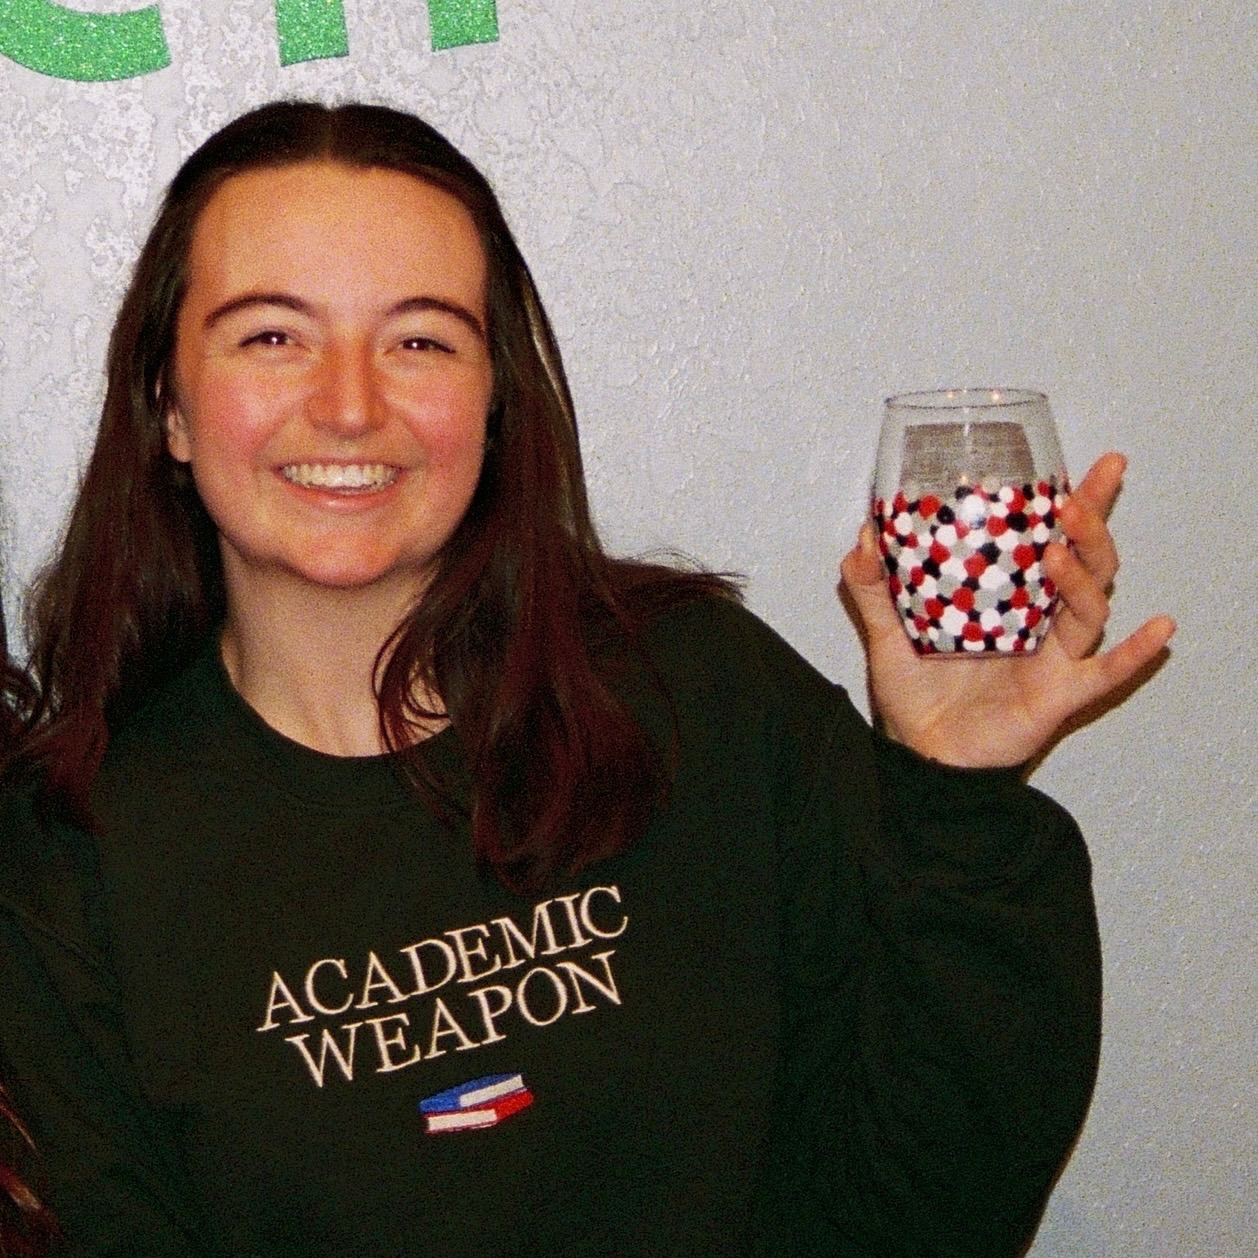
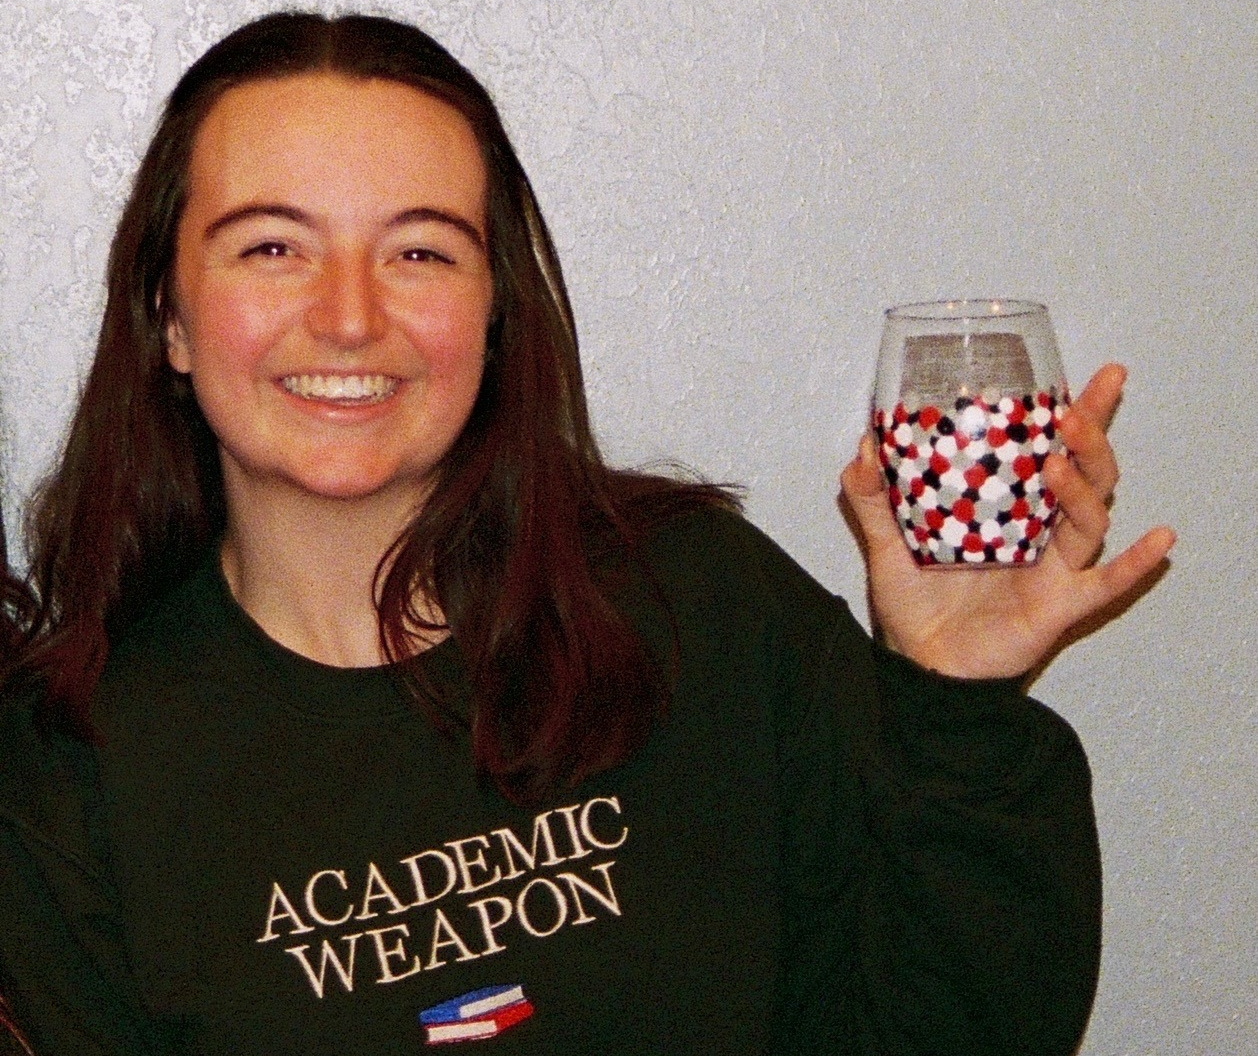
Cropped Pictures

diff --git a/Pages/styles.css b/Pages/styles.css
@@ -722,13 +722,13 @@ a.inline-link:hover { color: var(--green); }
 .media-tile-img img {
   width: 100%;
   height: 100%;
-  object-fit: cover;
+  object-fit: contain;
   display: block;
 }
 .media-tile-img img.Official-Logo {
   object-fit: contain;
   padding: 12px;
-  background-color: #fbf6e8;
+  background: #fbf6e8;
 }
 .media-tile-placeholder {
   text-align: center;
@@ -785,7 +785,7 @@ a.inline-link:hover { color: var(--green); }
 .commissioner-photo img {
   width: 100%;
   height: 100%;
-  object-fit: cover;
+  object-fit: contain;
   object-position: center center;
   display: block;
 }
